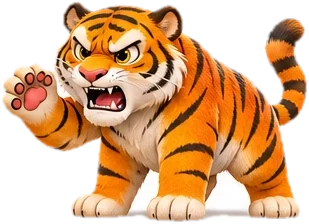
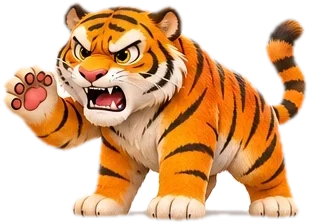
Play stories like a movie: voice narrates and scenes run by themselves
One tap starts the movie; each scene is narrated, its action plays
automatically (mouse runs, roars, rope nibbling), then it fades to the
next scene with a slow camera move and cinema bars. Tap the screen or
the button to pause/resume. No on-screen text and no tapping needed.
Also cleaned white showing through the net and under the tiger's feet.

Claude-Session: https://claude.ai/code/session_01QxZEKQa9Tg76vW2p6EfgqB

diff --git a/index.html b/index.html
@@ -118,6 +118,17 @@
   @keyframes popup { 0% { opacity: 0; transform: translate(-50%,-30%) scale(.6); } 20% { opacity: 1; transform: translate(-50%,-60%) scale(1.15); }
     100% { opacity: 0; transform: translate(-50%,-160%) scale(1); } }
   .tapme { cursor: pointer; }
+  #caption { display: none !important; }
+  #stage.fadein { animation: scenefade 1s ease; }
+  @keyframes scenefade { from { opacity: 0; filter: brightness(.3); } to { opacity: 1; filter: none; } }
+  #stage .sky { animation: camera 14s ease-out forwards; transform-origin: 50% 70%; }
+  @keyframes camera { from { transform: scale(1.0); } to { transform: scale(1.08); } }
+  #player::before, #player::after { content: ''; position: absolute; left: 0; right: 0; height: 5vh; background: #000; z-index: 4; pointer-events: none; }
+  #player::before { top: 0; } #player::after { bottom: 0; }
+  #player.paused #stage { filter: brightness(.6); }
+  #player.paused #stage::after { content: '▶'; position: absolute; left: 50%; top: 50%; transform: translate(-50%,-50%);
+    font-size: 18vmin; color: #fff; text-shadow: 0 4px 20px rgba(0,0,0,.5); z-index: 6; }
+  #hud { z-index: 7; }
   .tapme::after {
     content: "👆"; position: absolute; font-size: .35em; right: -10%; bottom: -15%;
     animation: pulse 1s infinite; transform: none;
@@ -140,7 +151,7 @@
   #hud .grow { flex: 1; }
   #progress { height: 10px; background: rgba(255,255,255,.6); border-radius: 99px; overflow: hidden; }
   #progress i { display: block; height: 100%; width: 0; background: var(--accent); transition: width .5s; }
-  #counter { min-width: 64px; text-align: center; }
+  #counter { min-width: 44px; text-align: center; font-size: 18px; }
 
   /* Curtain */
   #curtain { position: absolute; inset: 0; z-index: 10; display: flex; cursor: pointer; }
@@ -223,7 +234,7 @@
   </div>
   <div id="curtain">
     <div class="half"></div><div class="half"></div>
-    <div class="label"><b>🎬 Story time!</b><span id="curtainTitle"></span><br><small>tap to open the curtain</small></div>
+    <div class="label"><b>🎬 Story time!</b><span id="curtainTitle"></span><br><small>▶ tap to start the movie</small></div>
   </div>
 </section>
 
@@ -345,7 +356,7 @@ const BUILTIN = [
         actors: [{ id: 'crow', e: '🐦⬛', x: 30, y: 46, s: 16, cls: 'bob' },
                  { id: 'pot', e: '🏺', x: 55, y: 58, s: 34 },
                  { id: 'pile', e: '🪨', x: 84, y: 70, s: 18, cls: 'tapme' }],
-        text: { en: 'Help the crow! Tap the pebbles to drop them into the pot.', hi: 'कौवे की मदद करो! कंकड़ पर टैप करके उन्हें मटके में डालो।' },
+        text: { en: 'One by one, the clever crow dropped pebbles into the pot. Plop! Plop! Plop!', hi: 'चालाक कौवे ने एक-एक करके मटके में कंकड़ डाले। टप! टप! टप!' },
         tap: { target: 'pile', times: 5,
                hint: { en: 'Tap the pebbles 🪨', hi: 'कंकड़ पर टैप करो 🪨' },
                onTap(i, api) { api.flyPebble(); api.setWater(i / 5); } } },
@@ -384,7 +395,7 @@ const BUILTIN = [
         actors: [{ id: 'flag', e: '🏁', x: 90, y: 60, s: 18 }, { id: 'tree', e: '🌳', x: 58, y: 48, s: 30 },
                  { id: 'hare', e: '🐇', x: 60, y: 66, s: 18 }, { id: 'z', e: '💤', x: 66, y: 52, s: 10, cls: 'zzz' },
                  { id: 'tort', e: '🐢', x: 10, y: 76, s: 16, cls: 'tapme' }],
-        text: { en: 'The tortoise kept walking, step by step. Tap the tortoise to help him walk!', hi: 'कछुआ कदम-कदम चलता रहा। कछुए पर टैप करो और उसे चलाओ!' },
+        text: { en: 'But the tortoise did not stop. He kept walking, step by step, step by step.', hi: 'पर कछुआ रुका नहीं। वह कदम-कदम, कदम-कदम चलता रहा।' },
         tap: { target: 'tort', times: 6,
                hint: { en: 'Tap the tortoise 🐢', hi: 'कछुए पर टैप करो 🐢' },
                onTap(i, api) { api.move('tort', 10 + i * 13.5); } } },
@@ -407,7 +418,7 @@ const BUILTIN = [
       { sky: 'linear-gradient(#9fb7c9,#c9d8e3 60%,#a5753f 60%,#8a5e30)',
         actors: [{ id: 'cloud', e: '🌧', x: 60, y: 22, s: 22, cls: 'tapme' }, { id: 'seed', e: '🫘', x: 60, y: 66, s: 8 },
                  { id: 'girl', e: '👧', x: 22, y: 52, s: 20 }],
-        text: { en: 'The seed needs water. Tap the cloud to make it rain!', hi: 'बीज को पानी चाहिए। बादल पर टैप करो और बारिश कराओ!' },
+        text: { en: 'The seed needed water. Then the rain came — pitter, patter, pitter, patter!', hi: 'बीज को पानी चाहिए था। फिर बारिश आई — टिप-टिप, टिप-टिप!' },
         tap: { target: 'cloud', times: 4,
                hint: { en: 'Tap the cloud 🌧', hi: 'बादल पर टैप करो 🌧' },
                onTap(i, api) {
@@ -433,16 +444,23 @@ const state = {
   lang: store.get('psb.lang', 'en'),
   voice: store.get('psb.voice', true),
   mine: store.get('psb.mine', []),
-  story: null, idx: 0, score: 0, busy: false, taps: 0,
+  story: null, idx: 0, score: 0, busy: false, taps: 0, token: 0, paused: false,
 };
 const $ = (s) => document.querySelector(s);
 const show = (id) => ['home', 'maker', 'player'].forEach((x) => $('#' + x).classList.toggle('hidden', x !== id));
 
 /* ---------- Speech ---------- */
-function speak(text) {
-  if (!state.voice || !('speechSynthesis' in window)) return;
+function speak(text, onDone) {
+  // onDone fires once when narration ends (or after an estimated time if there is no voice).
+  let fired = false; const t0 = Date.now();
+  const est = 600 + text.length * (state.lang === 'hi' ? 85 : 75);
+  const done = (minLeft = 0) => { if (fired || !onDone) return; fired = true; setTimeout(onDone, Math.max(0, minLeft)); };
+  if (onDone) setTimeout(() => done(), est * 2 + 3000);            // safety net
+  if (!state.voice || !('speechSynthesis' in window) || !text) { done(est); return; }
   speechSynthesis.cancel();
   const u = new SpeechSynthesisUtterance(text.replace(/[\u{1F300}-\u{1FAFF}☀-➿]/gu, ''));
+  u.onend = () => done(Math.max(0, 1200 - (Date.now() - t0)));
+  u.onerror = () => done(Math.max(0, est - (Date.now() - t0)));
   const want = state.lang === 'hi' ? 'hi' : 'en';
   const v = speechSynthesis.getVoices().find((x) => x.lang.toLowerCase().startsWith(want + '-in'))
          || speechSynthesis.getVoices().find((x) => x.lang.toLowerCase().startsWith(want));
@@ -574,7 +592,7 @@ $('#makerBack').onclick = () => { renderHome(); show('home'); };
 let fromMaker = false;
 function play(story, preview = false) {
   fromMaker = preview;
-  state.story = story; state.idx = 0; state.score = 0;
+  state.story = story; state.idx = 0; state.score = 0; state.paused = false; state.token++;
   (story.preload || []).forEach((u) => { const i = new Image(); i.src = u; });
   $('#theend').classList.add('hidden');
   $('#curtainTitle').textContent = story.custom ? story.title : L(story.title);
@@ -586,14 +604,14 @@ $('#curtain').onclick = () => {
   const c = $('#curtain'); if (c.classList.contains('open')) return;
   c.classList.add('open'); blip(520);
   setTimeout(() => c.classList.add('hidden'), 1300);
+  speechSynthesis?.speak?.(new SpeechSynthesisUtterance(''));   // unlock voice on this tap (mobile)
   renderScene();
 };
 function updateHud() {
   const s = state.story; if (!s) return;
   const pct = Math.round((state.idx / s.scenes.length) * 100);
   $('#progress i').style.width = pct + '%';
-  $('#counter').textContent = s.custom ? `📖 ${Math.min(state.idx + 1, s.scenes.length)} / ${s.scenes.length}`
-    : `${s.counter} ${state.score} / ${s.goal}`;
+  $('#counter').textContent = state.paused ? '▶' : '⏸';
 }
 
 const imgPath = (n) => (n.includes('/') ? n : 'img/tiger/' + n + '.webp');
@@ -627,17 +645,44 @@ const api = {
   },
 };
 
+/* Movie mode: every scene plays by itself. Voice narrates, the action happens, then the next scene. */
+const later = (fn, ms) => { const tok = state.token; setTimeout(() => { if (tok === state.token && !state.paused) fn(); }, ms); };
+function narrate(text, then) { const tok = state.token; speak(text, () => { if (tok === state.token && !state.paused) then(); }); }
+function runScene() {
+  const s = state.story, sc = s.scenes[state.idx];
+  const text = s.custom ? (sc.text || '') : L(sc.text);
+  narrate(text, () => {
+    let left = sc.tap ? sc.tap.times - state.taps : 0;
+    const step = () => {
+      if (left-- > 0) { doTap(sc); later(step, 950); }
+      else later(() => next(true), sc.tap ? 2400 : 900);
+    };
+    step();
+  });
+}
+function doTap(sc) {
+  if (state.taps >= sc.tap.times) return;
+  state.taps++; state.score++; blip(500 + state.taps * 80);
+  sc.tap.onTap(state.taps, api); updateHud();
+}
+function togglePause() {
+  if (!state.story || !$('#curtain').classList.contains('open') || !$('#theend').classList.contains('hidden')) return;
+  state.paused = !state.paused; state.token++;
+  $('#counter').textContent = state.paused ? '▶' : '⏸';
+  $('#player').classList.toggle('paused', state.paused);
+  if (state.paused) speechSynthesis?.cancel?.(); else renderScene();
+}
 function renderScene() {
   const s = state.story, sc = s.scenes[state.idx], stage = $('#stage');
+  state.token++;
   stage.innerHTML = '';
+  stage.classList.remove('fadein'); void stage.offsetWidth; stage.classList.add('fadein');
   state.taps = 0; state.busy = false;
   if (s.custom) {
     stage.style.background = '#111'; stage.dataset.tone = '';
     const ph = document.createElement('div'); ph.className = 'photo' + (sc.fit ? ' fit' : '');
     ph.style.backgroundImage = `url(${sc.img})`;
     stage.append(ph);
-    setCaption(sc.text || '', state.lang === 'hi' ? 'आगे के लिए टैप करो ▶' : 'tap for next ▶');
-    speak(sc.text || '');
   } else {
     stage.style.background = '';
     stage.dataset.tone = sc.tone || '';
@@ -650,7 +695,7 @@ function renderScene() {
     }
     for (const a of sc.actors) {
       const el = document.createElement('div');
-      el.className = 'actor ' + (a.cls || ''); el.dataset.id = a.id;
+      el.className = 'actor ' + (a.cls || '').replace('tapme', ''); el.dataset.id = a.id;
       if (a.img) {
         el.classList.add('pic');
         const im = document.createElement('img'); im.alt = ''; im.src = imgPath(a.img); el.append(im);
@@ -661,28 +706,10 @@ function renderScene() {
       }
       stage.append(el);
     }
-    if (sc.after) setTimeout(() => sc.after.forEach((m) => api.move(m.id, m.x, m.y)), 400);
-    const hint = sc.tap ? L(sc.tap.hint) : (state.lang === 'hi' ? 'आगे के लिए टैप करो ▶' : 'tap for next ▶');
-    setCaption(L(sc.text), hint);
-    speak(L(sc.text));
-    if (sc.tap) {
-      const t = api.actor(sc.tap.target);
-      t.onclick = (e) => {
-        e.stopPropagation();
-        if (state.taps >= sc.tap.times) return;
-        state.taps++; state.score++; blip(500 + state.taps * 80);
-        sc.tap.onTap(state.taps, api); updateHud();
-        if (state.taps >= sc.tap.times) {
-          t.classList.remove('tapme');
-          setCaption(L(sc.text), state.lang === 'hi' ? 'शाबाश! आगे के लिए टैप करो ▶' : 'Well done! tap for next ▶');
-          speak(state.lang === 'hi' ? 'शाबाश!' : 'Well done!');
-        }
-      };
-    } else if (!s.custom) {
-      state.score = Math.min(s.goal, state.score); // story-only scenes don't change the counter
-    }
+    if (sc.after) later(() => sc.after.forEach((m) => api.move(m.id, m.x, m.y)), 400);
   }
   updateHud();
+  runScene();
 }
 function setCaption(text, hint) {
   const c = $('#caption');
@@ -696,11 +723,9 @@ function setCaption(text, hint) {
 function next() {
   const s = state.story; if (!s || !$('#curtain').classList.contains('open')) return;
   if (!$('#theend').classList.contains('hidden')) return;
-  const sc = s.scenes[state.idx];
-  if (sc && sc.tap && state.taps < sc.tap.times) { const t = api.actor(sc.tap.target); t && t.animate([{ filter: 'brightness(1.6)' }, { filter: 'none' }], 500); return; }
   state.idx++;
   if (state.idx >= s.scenes.length) return theEnd();
-  blip(440); renderScene();
+  renderScene();
 }
 function theEnd() {
   updateHud();
@@ -718,17 +743,17 @@ function theEnd() {
   }
 }
 function exitPlayer() {
-  speechSynthesis?.cancel?.();
+  state.token++; speechSynthesis?.cancel?.();
   if (fromMaker) show('maker'); else { renderHome(); show('home'); }
 }
-$('#stage').onclick = next;
-$('#caption').onclick = next;
+$('#stage').onclick = togglePause;
+$('#counter').onclick = togglePause;
 $('#homeBtn').onclick = exitPlayer;
 $('#endHome').onclick = exitPlayer;
 $('#againBtn').onclick = () => play(state.story, fromMaker);
 document.addEventListener('keydown', (e) => {
   if ($('#player').classList.contains('hidden')) return;
-  if (e.key === 'ArrowRight' || e.key === ' ') { e.preventDefault(); $('#curtain').classList.contains('open') ? next() : $('#curtain').click(); }
+  if (e.key === ' ') { e.preventDefault(); $('#curtain').classList.contains('open') ? togglePause() : $('#curtain').click(); }
   if (e.key === 'Escape') exitPlayer();
 });
 // Swipe up / left to advance, like a reel.
@@ -737,7 +762,7 @@ $('#player').addEventListener('touchstart', (e) => { y0 = e.touches[0].clientY; 
 $('#player').addEventListener('touchend', (e) => {
   if (y0 == null) return;
   const dy = y0 - e.changedTouches[0].clientY, dx = x0 - e.changedTouches[0].clientX;
-  if (Math.max(dy, dx) > 60) next();
+  if (Math.max(dy, dx) > 60 && !state.paused) { state.token++; speechSynthesis?.cancel?.(); next(); }
   y0 = x0 = null;
 }, { passive: true });
 if ('speechSynthesis' in window) speechSynthesis.onvoiceschanged = () => {};
